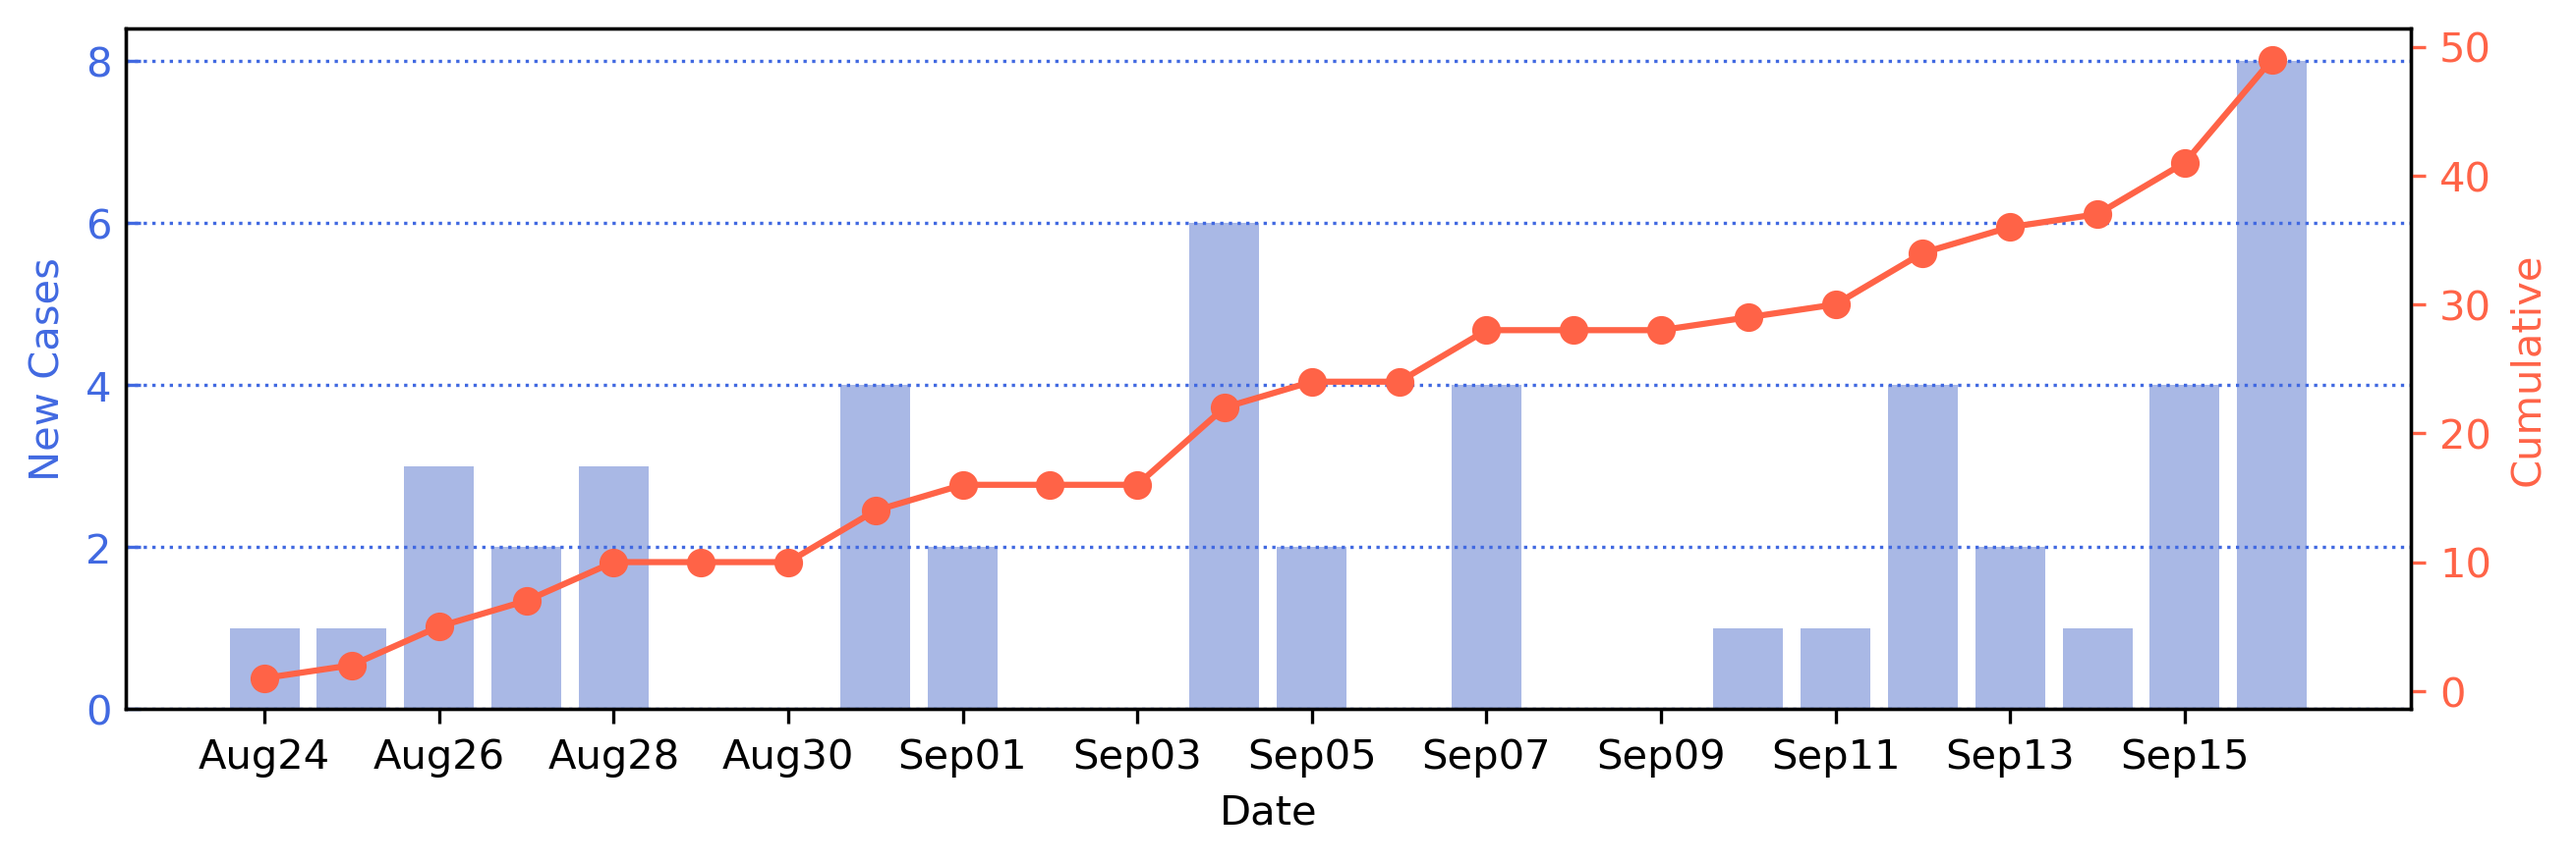
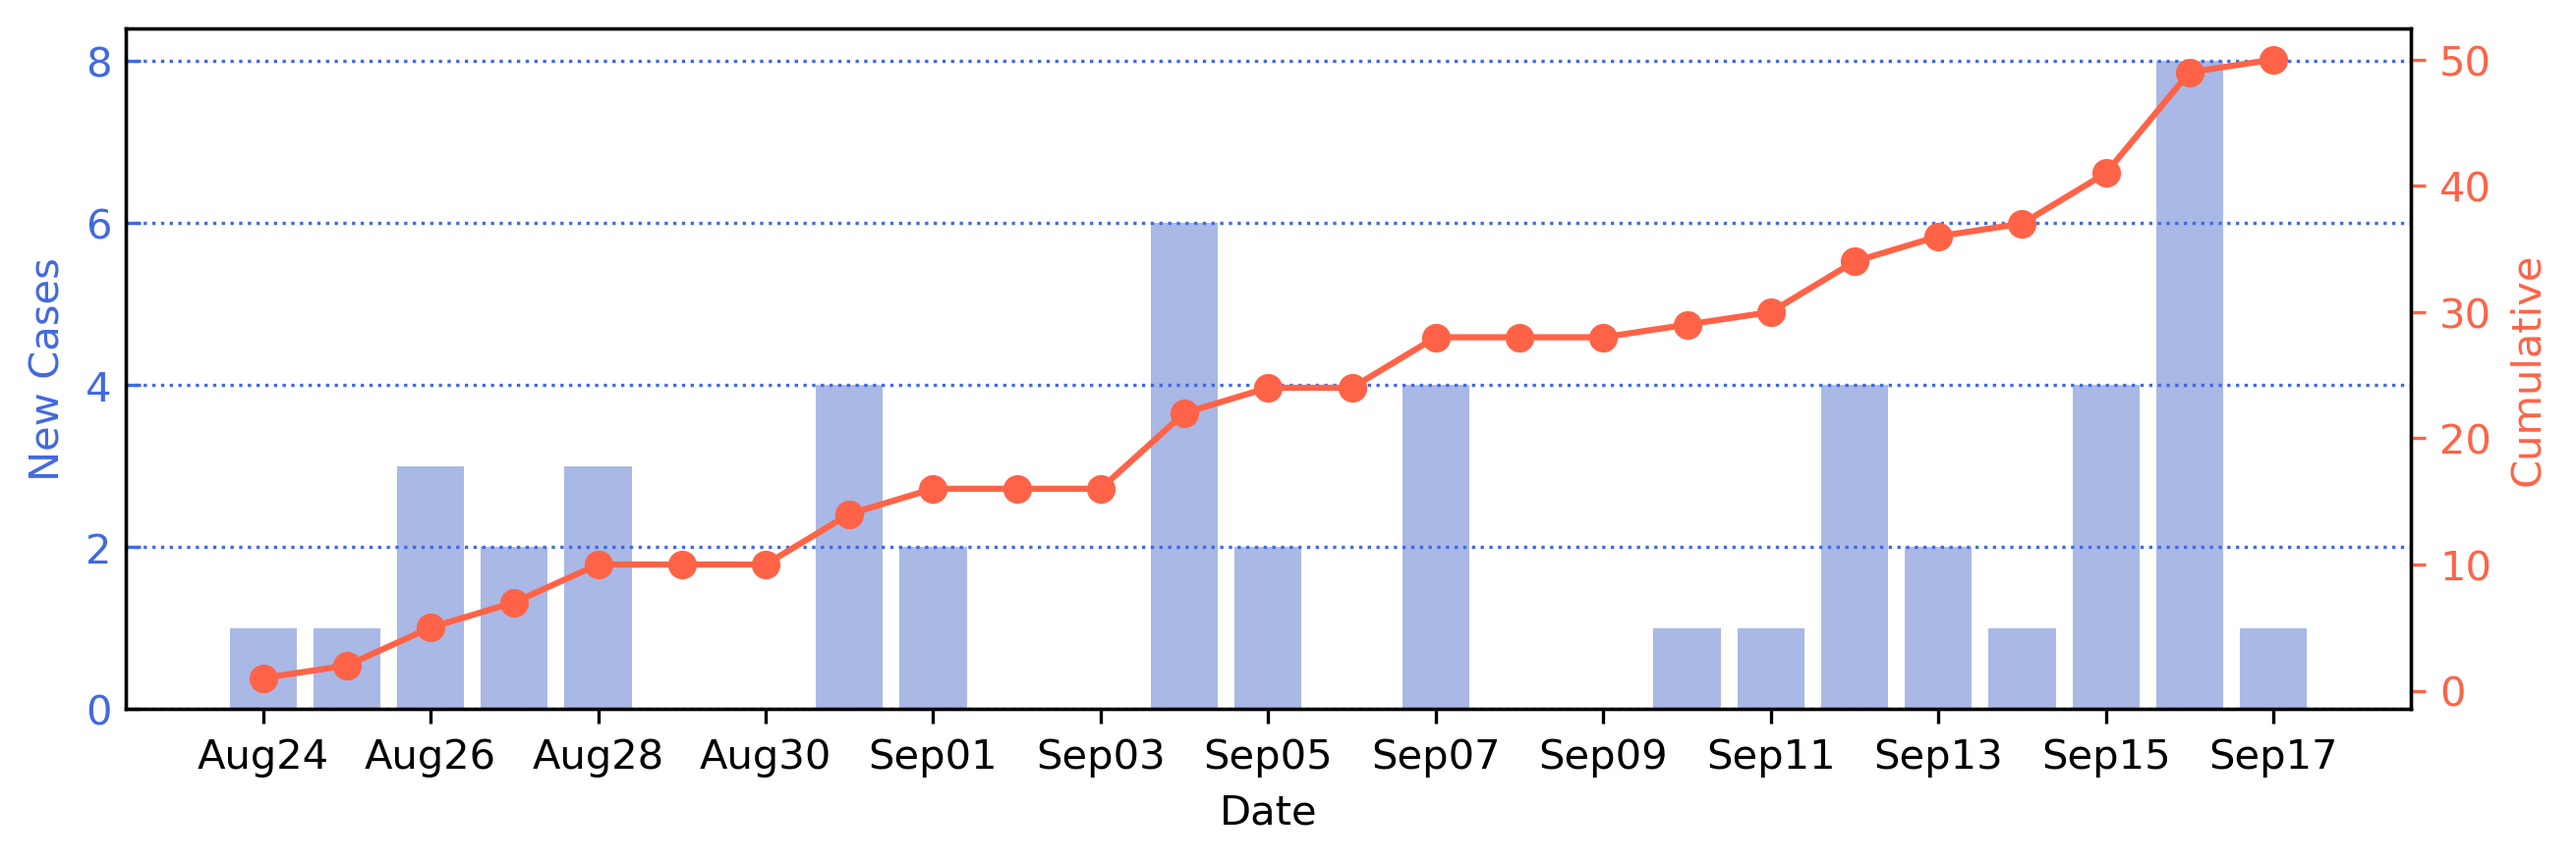
add new cases

diff --git a/index.html b/index.html
@@ -21,6 +21,7 @@
     <div class="row">
       <div class="col-md-6 offset-md-3">
         <h2>Source</h2>
+        <blockquote class="twitter-tweet"><p lang="en" dir="ltr">A single new case of COVID-19 (coronavirus) has been confirmed to the Rensselaer County Health Department, it was announced Thursday.<br>The new case brings the total number of confirmed cases in the county to 921. There are now 27 active cases in the county: <a href="https://t.co/fqusrtwPGl">https://t.co/fqusrtwPGl</a> <a href="https://t.co/XK9IkMZM5w">pic.twitter.com/XK9IkMZM5w</a></p>&mdash; RensselaerCo.Exec (@RenscoExecutive) <a href="https://twitter.com/RenscoExecutive/status/1306672760488370178?ref_src=twsrc%5Etfw">September 17, 2020</a></blockquote> <script async src="https://platform.twitter.com/widgets.js" charset="utf-8"></script>
         <blockquote class="twitter-tweet"><p lang="en" dir="ltr">Eight new cases of COVID-19 confirmed to Rensselaer County Department of Health, it was announced today.<br>County also announced 4th floor of County Office Building in Troy is closed until Friday following confirmed case involving an employee from floor: <a href="https://t.co/fqusrtwPGl">https://t.co/fqusrtwPGl</a></p>&mdash; RensselaerCo.Exec (@RenscoExecutive) <a href="https://twitter.com/RenscoExecutive/status/1306326707322920974?ref_src=twsrc%5Etfw">September 16, 2020</a></blockquote> <script async src="https://platform.twitter.com/widgets.js" charset="utf-8"></script>
         <blockquote class="twitter-tweet"><p lang="en" dir="ltr">Four new cases of COVID-19 (coronavirus) have been confirmed to the Rensselaer County Health Department, it was announced on Tuesday.<br>The 4 new cases bring total number of confirmed cases in the county to 912. There are now 19 active cases in the county: <a href="https://t.co/fqusrtwPGl">https://t.co/fqusrtwPGl</a></p>&mdash; RensselaerCo.Exec (@RenscoExecutive) <a href="https://twitter.com/RenscoExecutive/status/1305957089538437122?ref_src=twsrc%5Etfw">September 15, 2020</a></blockquote> <script async src="https://platform.twitter.com/widgets.js" charset="utf-8"></script>
         <blockquote class="twitter-tweet"><p lang="en" dir="ltr">A single case of COVID-19 (coronavirus) has been confirmed to the Rensselaer County Health Department, it was announced on Monday.<br>The new case brings the total number of confirmed cases in the county to 908. There are now 18 active cases in the county. <a href="https://t.co/oFrlwhmVtm">pic.twitter.com/oFrlwhmVtm</a></p>&mdash; RensselaerCo.Exec (@RenscoExecutive) <a href="https://twitter.com/RenscoExecutive/status/1305600086924197889?ref_src=twsrc%5Etfw">September 14, 2020</a></blockquote> <script async src="https://platform.twitter.com/widgets.js" charset="utf-8"></script>

diff --git a/plots.py b/plots.py
@@ -6,6 +6,8 @@ import seaborn as sns
 
 df = pd.read_csv('cases.csv')
 
+print('Total cases:', df['new-cases'].sum())
+
 plt.figure(figsize=(10,3))
 sns.barplot('date', 'new-cases', data=df, color='royalblue', alpha=0.5)
 plt.xlabel('Date')
